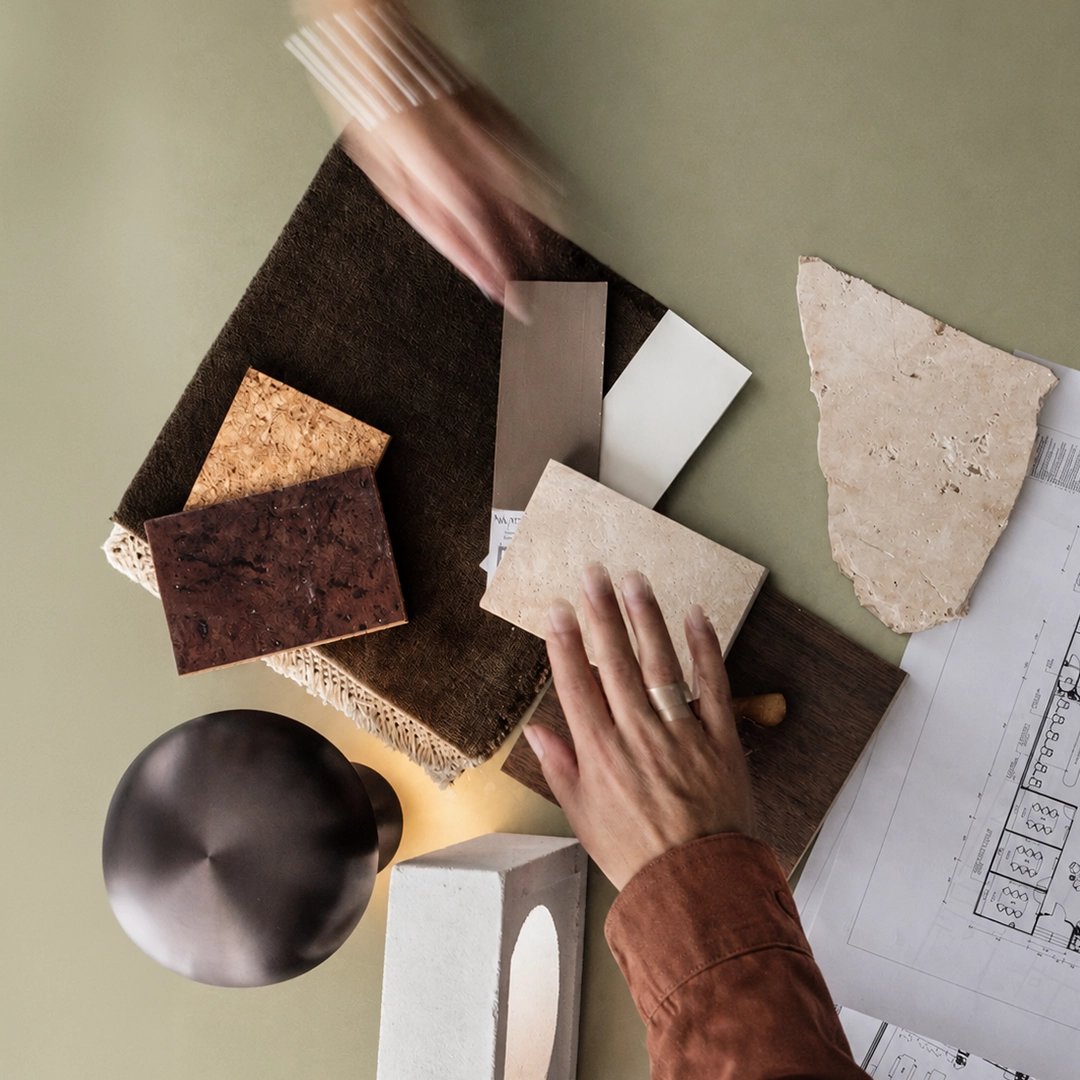
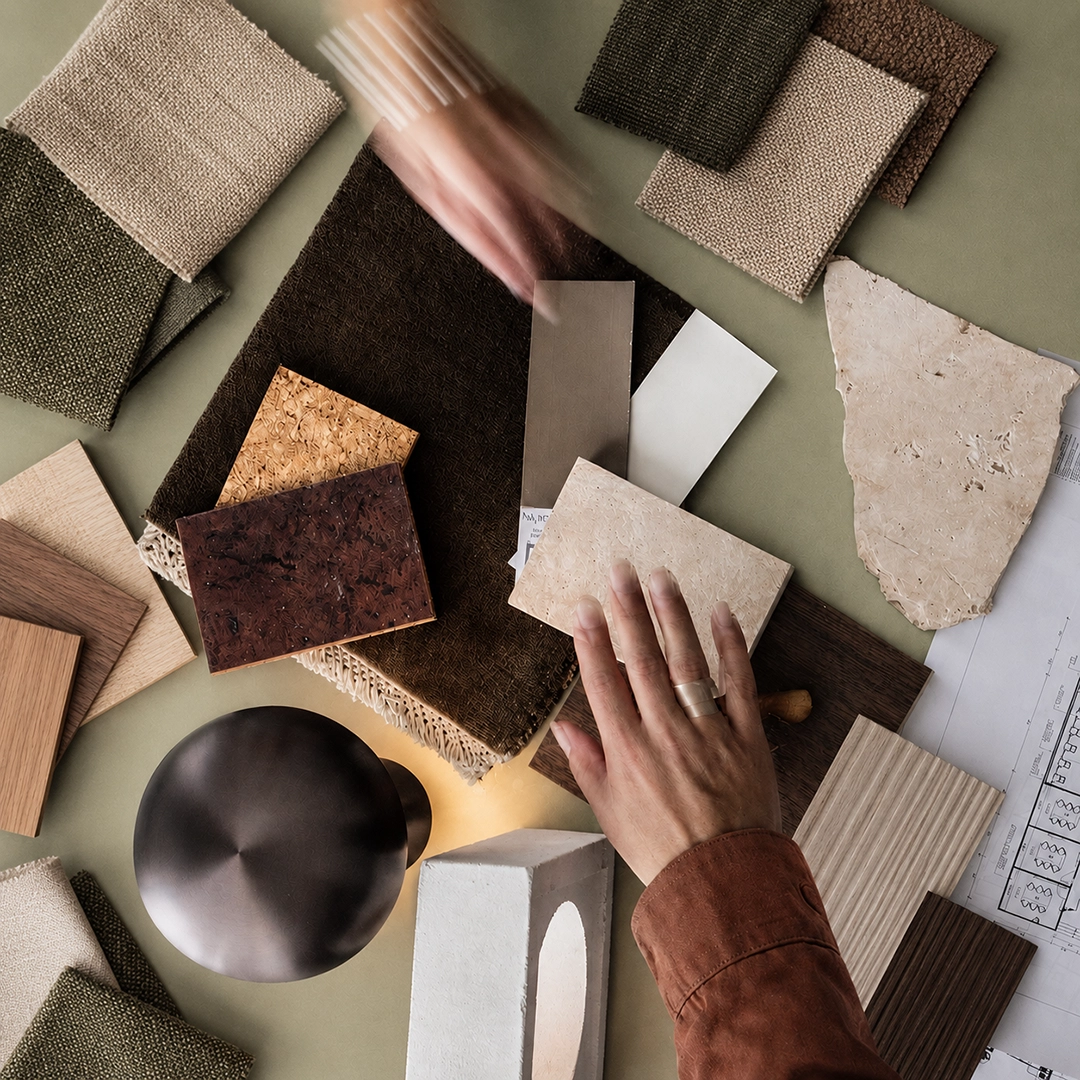
feat: add new carpentry and interior images, update gallery and testimonials content

diff --git a/src/components/SocialSection.tsx b/src/components/SocialSection.tsx
@@ -1,50 +1,80 @@
-import { site, siteText, socialLinks } from '../content/site'
+import { useRef } from 'react'
+import { socialLinks } from '../content/site'
 import { socialSection } from '../content/social'
+import { useInView } from '../hooks/useInView'
 import { usePick } from '../i18n/languageContext'
+import Reveal from './ui/Reveal'
 import SectionHeading from './ui/SectionHeading'
 import { socialIconPaths } from './ui/socialIconPaths'
-import SplitWindowReveal from './ui/SplitWindowReveal'
-import { useInView } from '../hooks/useInView'
 
 export default function SocialSection() {
-  // Shrinks the observed viewport to its top 40% — the curtain only opens
-  // once the section has scrolled up that far, not the instant it peeks in
-  // from the bottom (e.g. when jumping straight to the Contact anchor).
-  const { ref, isInView } = useInView<HTMLDivElement>(0, false, '0px 0px -60% 0px')
+  const { ref, isInView } = useInView<HTMLDivElement>(0.2, false)
+  const gridRef = useRef<HTMLDivElement>(null)
+  const glowRef = useRef<HTMLDivElement>(null)
   const section = usePick(socialSection)
   const links = usePick(socialLinks)
-  const text = usePick(siteText)
+
+  // Imperative (no re-render) so the glow tracks the cursor at full frame rate.
+  const handlePointerMove = (e: React.MouseEvent<HTMLDivElement>) => {
+    const rect = gridRef.current?.getBoundingClientRect()
+    if (!rect || !glowRef.current) return
+    glowRef.current.style.setProperty('--mx', `${((e.clientX - rect.left) / rect.width) * 100}%`)
+    glowRef.current.style.setProperty('--my', `${((e.clientY - rect.top) / rect.height) * 100}%`)
+  }
 
   return (
-    <section ref={ref} className="bg-greige">
-      <SplitWindowReveal isInView={isInView} centerIcon={site.logos.primaryIcon} centerIconAlt={text.logoAlt}>
-        <div className="px-6 py-20">
-          <div className="mx-auto max-w-3xl">
-            <SectionHeading title={section.title} />
-            <p className="font-body mx-auto mt-3 max-w-md text-center text-sm text-ink/60">{section.subtitle}</p>
+    <section className="bg-greige px-6 py-20">
+      <div className="mx-auto max-w-3xl">
+        <Reveal>
+          <SectionHeading title={section.title} />
+          <p className="font-body mx-auto mt-3 max-w-md text-center text-sm text-ink/60">{section.subtitle}</p>
+        </Reveal>
 
-            <div className="mt-12 grid grid-cols-2 gap-4 sm:grid-cols-4">
-              {links.map((link) => {
-                const Icon = socialIconPaths[link.id]
-                return (
-                  <a
-                    key={link.id}
-                    href={link.url}
-                    target="_blank"
-                    rel="noreferrer noopener"
-                    className="group flex flex-col items-center gap-3 rounded-lg bg-white/50 p-6 text-center ring-1 ring-ink/10 transition hover:-translate-y-1 hover:bg-white/80 hover:shadow-md"
-                  >
-                    <span className="flex h-12 w-12 items-center justify-center rounded-full bg-ink/5 text-brown transition-colors group-hover:bg-olive group-hover:text-greige">
-                      <Icon className="h-5 w-5" />
-                    </span>
-                    <span className="font-body text-sm text-ink/80">{link.label}</span>
-                  </a>
-                )
-              })}
-            </div>
-          </div>
+        <div
+          ref={(node) => {
+            ref.current = node
+            gridRef.current = node
+          }}
+          onMouseMove={handlePointerMove}
+          onMouseEnter={() => glowRef.current?.style.setProperty('--glow-opacity', '1')}
+          onMouseLeave={() => glowRef.current?.style.setProperty('--glow-opacity', '0')}
+          className="relative mt-12 grid grid-cols-2 gap-4 sm:grid-cols-4"
+        >
+          <div
+            ref={glowRef}
+            aria-hidden="true"
+            className="pointer-events-none absolute inset-0 z-0 transition-opacity duration-500"
+            style={{
+              opacity: 'var(--glow-opacity, 0)',
+              background:
+                'radial-gradient(240px circle at var(--mx, 50%) var(--my, 50%), rgba(111,125,82,0.35), transparent 70%)',
+            }}
+          />
+          {links.map((link, index) => {
+            const Icon = socialIconPaths[link.id]
+            return (
+              <a
+                key={link.id}
+                href={link.url}
+                target="_blank"
+                rel="noreferrer noopener"
+                className={`group relative z-10 flex flex-col items-center gap-3 rounded-lg bg-white/50 p-6 text-center ring-1 ring-ink/10 transition duration-300 hover:-translate-y-1.5 hover:rotate-1 hover:bg-white/80 hover:shadow-md active:scale-90 ${
+                  isInView ? 'animate-bounce-in' : 'opacity-0'
+                }`}
+                style={{ animationDelay: `${index * 100}ms` }}
+              >
+                <span
+                  className="animate-icon-float flex h-12 w-12 items-center justify-center rounded-full bg-ink/5 text-brown transition-all duration-300 group-hover:scale-125 group-hover:-rotate-12 group-hover:bg-olive group-hover:text-greige"
+                  style={{ animationDelay: `${index * 220}ms` }}
+                >
+                  <Icon className="h-5 w-5" />
+                </span>
+                <span className="font-body text-sm text-ink/80">{link.label}</span>
+              </a>
+            )
+          })}
         </div>
-      </SplitWindowReveal>
+      </div>
     </section>
   )
 }

diff --git a/src/content/gallery.ts b/src/content/gallery.ts
@@ -58,28 +58,39 @@ export const galleryLinks: Localized<GalleryLink[]> = {
   ],
 }
 
+const CARPENTRY_PHOTO_COUNT = 20
+const INTERIOR_PHOTO_COUNT = 24
+
+const carpentryImageSrc = (n: number) =>
+  `/gallary_pics/Carp-WEBP/Carpentry-${String(n).padStart(2, '0')}.webp`
+const interiorImageSrc = (n: number) => `/gallary_pics/Int-WEBP/Interior-${String(n).padStart(2, '0')}.webp`
+
 export const galleryPlaceholderImages: Localized<{
-  carpentry: { id: string; label: string }[]
-  design: { id: string; label: string }[]
+  carpentry: { id: string; label: string; imageSrc: string }[]
+  design: { id: string; label: string; imageSrc: string }[]
 }> = {
   ar: {
-    carpentry: Array.from({ length: 9 }, (_, i) => ({
+    carpentry: Array.from({ length: CARPENTRY_PHOTO_COUNT }, (_, i) => ({
       id: `carpentry-${i + 1}`,
       label: `صورة مشروع نجارة ${i + 1}`,
+      imageSrc: carpentryImageSrc(i + 1),
     })),
-    design: Array.from({ length: 9 }, (_, i) => ({
+    design: Array.from({ length: INTERIOR_PHOTO_COUNT }, (_, i) => ({
       id: `design-${i + 1}`,
       label: `صورة مشروع تصميم ${i + 1}`,
+      imageSrc: interiorImageSrc(i + 1),
     })),
   },
   en: {
-    carpentry: Array.from({ length: 9 }, (_, i) => ({
+    carpentry: Array.from({ length: CARPENTRY_PHOTO_COUNT }, (_, i) => ({
       id: `carpentry-${i + 1}`,
       label: `Carpentry project photo ${i + 1}`,
+      imageSrc: carpentryImageSrc(i + 1),
     })),
-    design: Array.from({ length: 9 }, (_, i) => ({
+    design: Array.from({ length: INTERIOR_PHOTO_COUNT }, (_, i) => ({
       id: `design-${i + 1}`,
       label: `Design project photo ${i + 1}`,
+      imageSrc: interiorImageSrc(i + 1),
     })),
   },
 }

diff --git a/src/content/testimonials.ts b/src/content/testimonials.ts
@@ -58,6 +58,20 @@ export const testimonials: Localized<Testimonial[]> = {
       badgeLabel: 'عميل موثّق',
       text: 'أكتر شي لفتني بتجربتي مع حنينة هو الاحترافية والاهتمام بكل تفصيل صغير. حسّيت إنو في حدا فعلاً مهتم يطلع البيت بأجمل صورة، مش بس ينجز الطلب. من أول فكرة لآخر لمسة، كان في ثقة وراحة، والنتيجة فاقت كل توقعاتي.',
     },
+    {
+      id: 'testimonial-5',
+      name: 'حسن غملوش',
+      verified: true,
+      badgeLabel: 'عميل موثّق',
+      text: 'الحمد لله الله رزقنا بجماعة أوادم بيشتغلوا من قلبن و بيعطوا الشغل حقه ، الحق يقال كانت تجربه جدا رائعة معاملتهم و التزامهم و شغلهم النضيف كان كتير واضح و ان شاء الله بفرش كل البيت من عندهم',
+    },
+        {
+      id: 'testimonial-5',
+      name: 'فاطمة رزق',
+      verified: true,
+      badgeLabel: 'عميل موثّق',
+      text: 'كانت تجربة اكثر من رائعة طلبت غرفة نوم من عندهم خشب و نظافة شغل و سرعة بالشغل و أسعارهم جدا ممتازة اقل من السوق و تعاملهم روعه الله يوفقهم و يرزقه يا رب',
+    },
   ],
   en: [
     {

diff --git a/src/pages/GalleryPage.tsx b/src/pages/GalleryPage.tsx
@@ -1,5 +1,4 @@
 import { useNavigate } from 'react-router-dom'
-import ImagePlaceholder from '../components/ui/ImagePlaceholder'
 import ImageWithLoader from '../components/ui/ImageWithLoader'
 import Reveal from '../components/ui/Reveal'
 import { galleryLinks, galleryPageText, galleryPlaceholderImages } from '../content/gallery'
@@ -46,7 +45,11 @@ export default function GalleryPage({ galleryId }: GalleryPageProps) {
         <section className="mt-10 grid gap-4 sm:grid-cols-2 lg:grid-cols-3">
           {images.map((image, i) => (
             <Reveal key={image.id} delayMs={(i % 3) * 80}>
-              <ImagePlaceholder label={image.label} ratio="square" />
+              <ImageWithLoader
+                src={image.imageSrc}
+                alt={image.label}
+                className="aspect-square w-full rounded-lg object-cover"
+              />
             </Reveal>
           ))}
         </section>

diff --git a/src/index.css b/src/index.css
@@ -163,7 +163,47 @@ body {
   animation: popup-in 0.25s ease-out;
 }
 
+@keyframes bounce-in {
+  0% {
+    opacity: 0;
+    transform: scale(0.4) translateY(28px) rotate(-6deg);
+  }
+  60% {
+    opacity: 1;
+    transform: scale(1.1) translateY(-6px) rotate(3deg);
+  }
+  80% {
+    transform: scale(0.96) translateY(2px) rotate(-1deg);
+  }
+  100% {
+    opacity: 1;
+    transform: scale(1) translateY(0) rotate(0deg);
+  }
+}
+
+.animate-bounce-in {
+  animation: bounce-in 0.7s cubic-bezier(0.34, 1.56, 0.64, 1) both;
+}
+
+@keyframes icon-float {
+  0%,
+  100% {
+    transform: translateY(0);
+  }
+  50% {
+    transform: translateY(-5px);
+  }
+}
+
+.animate-icon-float {
+  animation: icon-float 2.8s ease-in-out infinite;
+}
+
 @media (prefers-reduced-motion: reduce) {
+  .animate-bounce-in,
+  .animate-icon-float {
+    animation: none !important;
+  }
   .drift {
     animation: none !important;
   }

diff --git a/src/content/faq.ts b/src/content/faq.ts
@@ -34,7 +34,7 @@ export const faqItems: Localized<FaqItem[]> = {
       id: 'post-delivery',
       question: 'إذا صار في مشكلة بعد التسليم شو بصير؟',
       answer:
-        'منضل معك حتى بعد التسليم. إذا صار أي شي، منتابع معك ومنالقي الحل المناسب، لأن رضاك جزء من شغلنا.',
+        'منضل معك حتى بعد التسليم. إذا صار أي شي، منتابع معك ومنلاقي الحل المناسب، لأن رضاك جزء من شغلنا.',
     },
     {
       id: 'what-we-offer',
